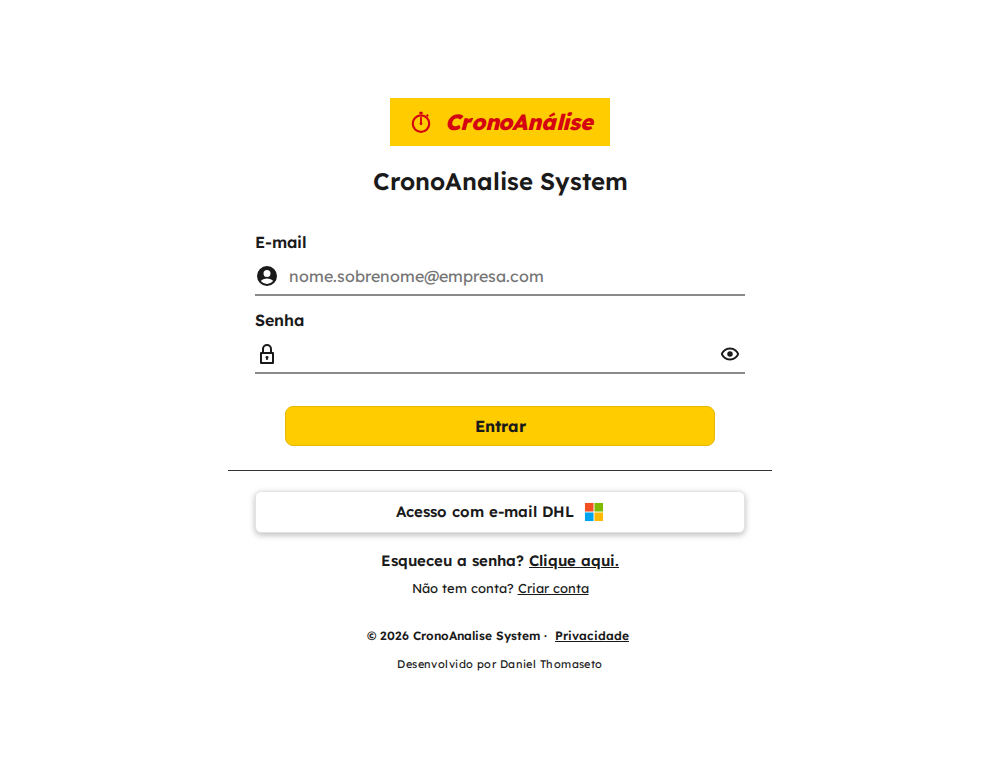
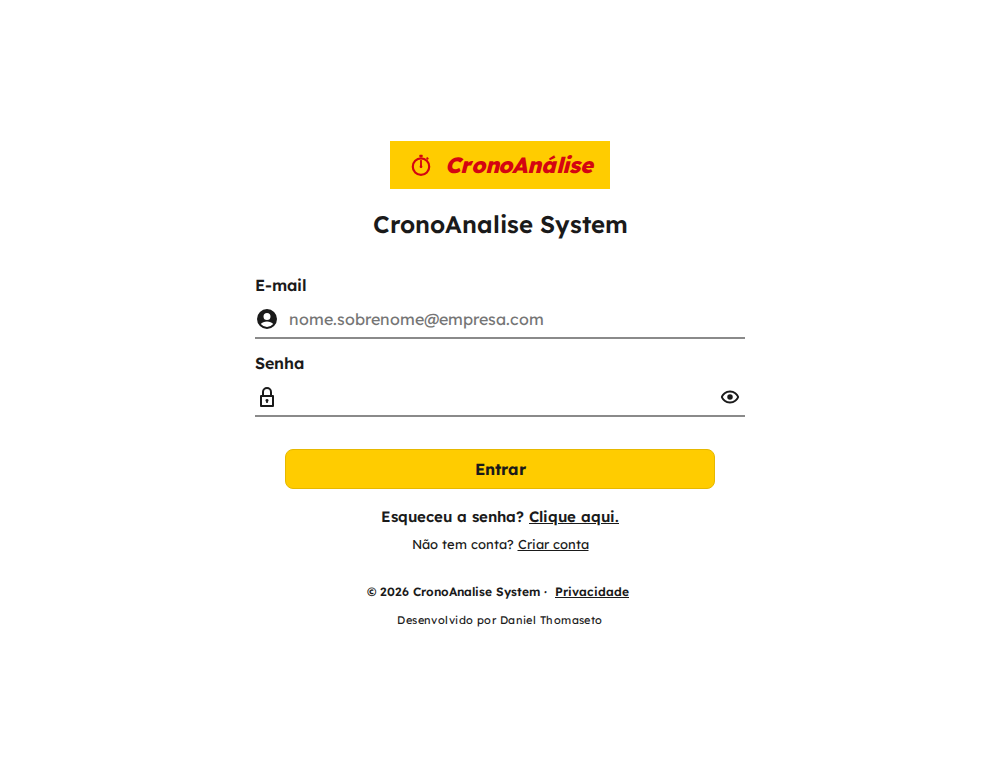
Login Microsoft e OneDrive só aparecem com o provedor ativo
O registro do app no Entra ID depende do TI. Enquanto o provedor Azure
não estiver ativo no Supabase, o botão "Acesso com e-mail DHL" (e o
separador) e o "Salvar no OneDrive" ficam escondidos. O app consulta
/auth/v1/settings ao abrir e guarda o último resultado no aparelho (sem
piscar e offline). Quando o provedor for ativado, tudo aparece sozinho,
sem novo deploy. BRAND.microsoftLogin = false desliga de vez.

- e2e: botão e OneDrive escondidos com o provedor desligado; aparecem ao
  ativar (311 verificações).
- Referências visuais do login e imagem do guia atualizadas.
- Guia, README e documento técnico: login por e-mail como padrão e o
  caminho pelo TI quando o portal do Azure negar acesso (401).

Claude-Session: https://claude.ai/code/session_015inqsutWcqWcvGta2TcqLi

Changed region(s): [[0.248, 0.3026, 0.744, 0.8776], [0.372, 0.1211, 0.62, 0.3329], [0.713, 0.4539, 0.744, 0.4842]]

diff --git a/js/main.js b/js/main.js
@@ -165,7 +165,7 @@ function restoreView() {
 function applyBrand() {
   $('loginTitle').textContent = BRAND.title;
   $('msLabel').textContent = BRAND.microsoftLabel;
-  $('btnMicrosoft').hidden = !BRAND.microsoftLogin;
+  showMicrosoft(BRAND.microsoftLogin && readMsEnabled());
   $('loginFooter').textContent = BRAND.footer;
   $('loginCredit').textContent = CREDIT;
   $('appCredit').textContent = CREDIT;
@@ -175,6 +175,27 @@ function applyBrand() {
     img.alt = BRAND.title;
     $('loginBrand').replaceChildren(img);
   }
+}
+
+/* Botão "Acesso com e-mail DHL" e "Salvar no OneDrive": só aparecem quando o
+   provedor Azure está ativo no Supabase. Enquanto o TI não registra o app no
+   Entra ID, ficam escondidos; quando ativarem, aparecem sozinhos (sem deploy).
+   O último resultado fica guardado para não "piscar" ao abrir. */
+const MS_ENABLED_KEY = 'cronoanalise:msEnabled';
+function readMsEnabled() {
+  try { return localStorage.getItem(MS_ENABLED_KEY) === '1'; } catch (e) { return false; }
+}
+function showMicrosoft(on) {
+  $('btnMicrosoft').hidden = !on;
+  $('msSep').hidden = !on;
+  $('btnOneDrive').hidden = !on;
+}
+async function refreshMicrosoft() {
+  if (!BRAND.microsoftLogin) return showMicrosoft(false);
+  const enabled = await auth.microsoftEnabled();
+  if (enabled === null) return; // sem rede: mantém o último estado conhecido
+  try { localStorage.setItem(MS_ENABLED_KEY, enabled ? '1' : '0'); } catch (e) { /* ok */ }
+  showMicrosoft(enabled);
 }
 
 /* ---------- Autenticação ---------- */
@@ -868,6 +889,7 @@ function boot() {
   initMenu();
   applyThemeUI();
   applyBrand();
+  refreshMicrosoft();
   editor.labels();
   storage.setWriteErrorHandler(() => showToast('⚠ Não foi possível gravar neste aparelho (armazenamento cheio?) — baixe um backup em Configurações', 6000));
 

diff --git a/index.html b/index.html
@@ -48,8 +48,8 @@
       <p id="authMsg" class="auth-msg" role="status"></p>
       <button type="submit" class="login-submit">Entrar</button>
     </form>
-    <hr class="login-sep">
-    <button type="button" class="ms-btn" id="btnMicrosoft" data-action="sign-in-microsoft">
+    <hr class="login-sep" id="msSep" hidden>
+    <button type="button" class="ms-btn" id="btnMicrosoft" data-action="sign-in-microsoft" hidden>
       <span id="msLabel">Acesso com e-mail DHL</span>
       <svg class="ms-logo" viewBox="0 0 21 21" aria-hidden="true"><rect x="1" y="1" width="9" height="9" fill="#f25022"/><rect x="11" y="1" width="9" height="9" fill="#7fba00"/><rect x="1" y="11" width="9" height="9" fill="#00a4ef"/><rect x="11" y="11" width="9" height="9" fill="#ffb900"/></svg>
     </button>
@@ -105,7 +105,7 @@
       <button type="button" class="view-editor-only" data-action="export-xlsx">📗 Exportar Excel (.xlsx)</button>
       <button type="button" class="view-editor-only" data-action="export-csv">📄 Exportar CSV</button>
       <button type="button" class="view-editor-only" data-action="share-file">📤 Enviar arquivo (Teams, e-mail…)</button>
-      <button type="button" class="view-editor-only" data-action="export-onedrive">☁ Salvar no OneDrive</button>
+      <button type="button" class="view-editor-only" id="btnOneDrive" data-action="export-onedrive" hidden>☁ Salvar no OneDrive</button>
       <button type="button" class="view-editor-only" data-action="print">🖨 Relatório / PDF</button>
       <button type="button" class="view-editor-only" data-action="print-a3">🧾 Relatório A3</button>
       <div class="menu-sep" aria-hidden="true">Equipe e conta</div>

diff --git a/docs/GUIA-DE-USO.md b/docs/GUIA-DE-USO.md
@@ -53,21 +53,21 @@
 
 ![Tela de login](img/01-login.png)
 
-### Opção A: com a conta Microsoft da empresa (recomendado)
+### Com e-mail e senha
 
 1. Abra o aplicativo no navegador do computador ou do celular.
-2. Toque em **"Acesso com e-mail DHL"** (o botão com o logo da Microsoft).
-3. Entre com o seu e-mail e a sua senha corporativos na página da Microsoft.
-4. Pronto: você volta para o CronoAnalise já conectado.
+2. Digite o **E-mail** e a **Senha**. O ícone de olho mostra ou esconde a senha.
+3. Toque em **Entrar**.
+4. Primeira vez? Toque em **"Não tem conta? Criar conta"**, use o e-mail e a senha escolhidos (mínimo 6 caracteres) e confirme pelo link que chega no e-mail.
+5. Esqueceu a senha? Digite o e-mail e toque em **"Esqueceu a senha? Clique aqui."**. Chega um link para criar uma senha nova.
 
-> Se aparecer "O acesso com a conta Microsoft ainda não foi ativado pelo administrador", use a opção B ou fale com quem administra o sistema (veja a [seção 19](#19-configuração-inicial-para-quem-administra-o-sistema)).
+### Com a conta Microsoft da empresa (quando ativado)
 
-### Opção B: com e-mail e senha
+O botão **"Acesso com e-mail DHL"** (com o logo da Microsoft) só aparece depois que o login Microsoft é ativado pelo administrador ([seção 19.2](#192-login-com-a-conta-microsoft)). Enquanto isso, a tela mostra só o login por e-mail e senha. Com o botão disponível:
 
-1. Digite o **E-mail** e a **Senha**. O ícone de olho mostra ou esconde a senha.
-2. Toque em **Entrar**.
-3. Primeira vez? Toque em **"Não tem conta? Criar conta"**, use o e-mail e a senha escolhidos (mínimo 6 caracteres) e confirme pelo link que chega no e-mail.
-4. Esqueceu a senha? Digite o e-mail e toque em **"Esqueceu a senha? Clique aqui."**. Chega um link para criar uma senha nova.
+1. Toque em **"Acesso com e-mail DHL"**.
+2. Entre com o seu e-mail e a sua senha corporativos na página da Microsoft.
+3. Pronto: você volta para o CronoAnalise já conectado.
 
 ### Se a sua conta tem verificação em duas etapas
 
@@ -377,7 +377,7 @@ Com o estudo aberto, toque em **☰** e escolha:
 | **🖨 Relatório / PDF** | Relatório para imprimir ou salvar em PDF, com indicadores, gráficos, tabelas e observações |
 | **🧾 Relatório A3** | Imprime o A3 ([seção 12](#12-relatório-a3)) |
 
-> "Salvar no OneDrive" só aparece funcionando para quem entrou com a **conta Microsoft**.
+> "Salvar no OneDrive" só aparece no menu quando o login Microsoft está ativado ([seção 19.2](#192-login-com-a-conta-microsoft)) e funciona para quem entra com a **conta Microsoft**.
 
 ---
 
@@ -518,6 +518,10 @@ Feito uma única vez. Detalhes técnicos também no [README](../README.md).
 4. **Recuperação de senha:** em **Authentication → URL Configuration**, coloque `https://crono-analise.vercel.app` em *Site URL* (ou em *Redirect URLs*).
 
 ### 19.2 Login com a conta Microsoft
+
+Enquanto este passo não for feito, o botão "Acesso com e-mail DHL" e o "Salvar no OneDrive" ficam escondidos, e o restante do sistema funciona normalmente. Depois de ativar o provedor Azure no Supabase, eles aparecem sozinhos, sem novo deploy.
+
+Em empresas grandes, registrar um aplicativo no Entra ID costuma ser exclusivo do TI (o portal mostra "Você não tem acesso", erro 401). Nesse caso, abra um chamado pedindo exatamente os itens 1 a 4 abaixo e solicite de volta o *client ID*, o *tenant ID*, o valor do *secret* (por canal seguro) e a validade do *secret*. Com eles em mãos, faça você mesmo os passos 5 e 6.
 
 1. No [portal do Azure](https://portal.azure.com) → **Microsoft Entra ID → App registrations → New registration**:
    - nome: "CronoAnalise System";

diff --git a/README.md b/README.md
@@ -100,6 +100,8 @@ O app detecta sozinho o que já foi aplicado; sem a 003, tudo continua funcionan
 
 ### Login com a conta Microsoft ("Acesso com e-mail DHL")
 
+O botão e o "Salvar no OneDrive" só aparecem quando o provedor **Azure** está ativo no Supabase. Até lá ficam escondidos, e quando o provedor é ativado aparecem sozinhos, sem novo deploy. Se o portal do Azure negar acesso (erro 401), peça ao TI o registro do app com os itens 1 a 3 abaixo.
+
 1. No portal do Azure (Entra ID) → *App registrations* → *New registration* (contas só deste diretório). Em *Redirect URI* (Web), use `https://zwfnsknaxqnexeuzvvjn.supabase.co/auth/v1/callback`.
 2. Em *Certificates & secrets*, crie um *client secret*. Em *Token configuration*, adicione a declaração opcional **email**.
 3. Para salvar no OneDrive, em *API permissions* adicione *Microsoft Graph → Delegated → Files.ReadWrite* (o app só pede essa permissão quando a pessoa usa "Salvar no OneDrive"; pode precisar de consentimento do administrador do tenant).

diff --git a/docs/FUNCIONAMENTO.md b/docs/FUNCIONAMENTO.md
@@ -550,7 +550,7 @@ A chave pública do Supabase (`sb_publishable_…`) é pública por natureza. **
 
 - **E-mail e senha** (Supabase Auth), com recuperação por e-mail e mensagens de erro traduzidas.
 - **Conta Microsoft** (Entra ID / Azure AD):
-  - antes de redirecionar, o app consulta `/auth/v1/settings` para saber se o provedor está ativo;
+  - o app consulta `/auth/v1/settings` ao abrir. O botão "Acesso com e-mail DHL" e o "Salvar no OneDrive" só aparecem quando o provedor está ativo; o último resultado fica guardado no aparelho (sem "piscar" e offline). Assim, ativar o provedor no Supabase basta para o botão aparecer, sem novo deploy;
   - com o *Tenant URL* do diretório da empresa configurado, só contas da empresa entram;
   - se a pessoa já tinha conta com o mesmo e-mail, o Supabase liga as duas formas de entrar.
 - **Duas etapas (TOTP):**
